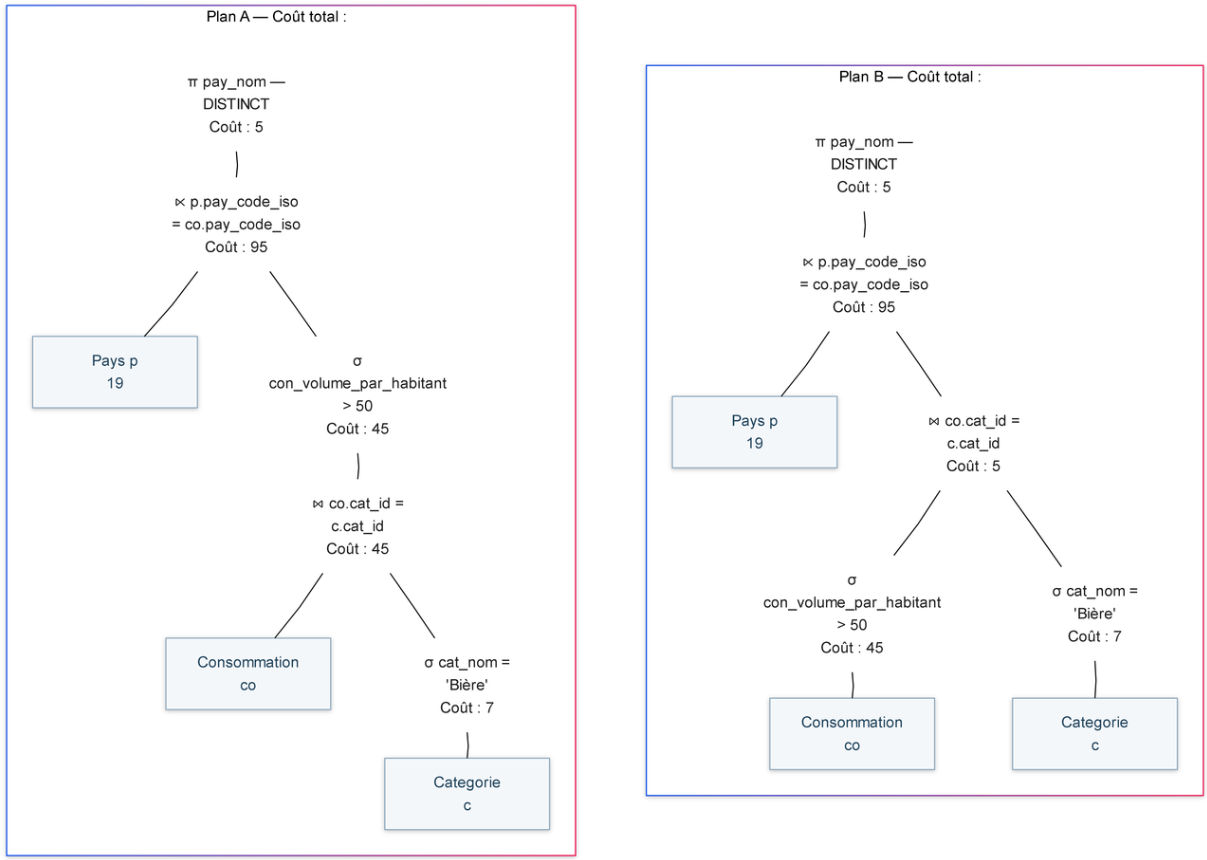
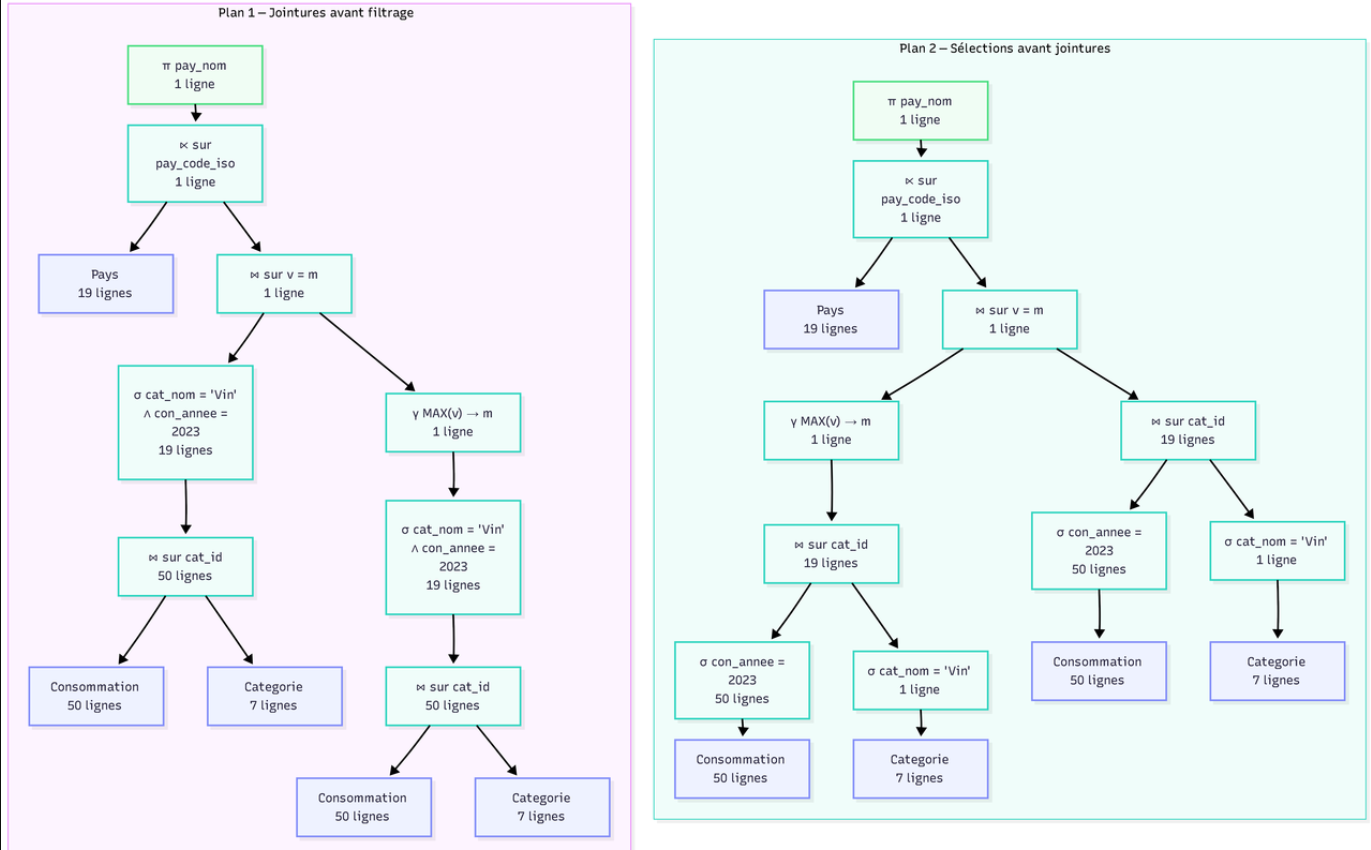
changement d'exemple

Changed region(s): [[0.0, 0.0, 1.0, 1.0]]

diff --git a/README.md b/README.md
@@ -101,21 +101,48 @@ Aucune structure de table ni relation n’a été créée : seul le niveau des d
 V.3 — Étude du meilleur plan d'exécution
 
 Requête analysée:
+Pays avec la plus forte consommation de vin en 2023:
 
-Lister les pays où la consommation de bière dépasse 50 litres par habitant.
-
-SELECT DISTINCT p.pay_nom
+SELECT p.pay_nom
 FROM Pays p
-WHERE EXISTS (
-    SELECT * FROM Consommation co
+WHERE p.pay_code_iso IN (
+    SELECT co.pay_code_iso
+    FROM Consommation co
     JOIN Categorie c ON co.cat_id = c.cat_id
-    WHERE co.pay_code_iso = p.pay_code_iso
-      AND c.cat_nom = 'Bière'
-      AND co.con_volume_par_habitant > 50
+    WHERE c.cat_nom = 'Vin'
+      AND co.con_annee = 2023
+      AND co.con_volume_par_habitant = (
+          SELECT MAX(c2_con.con_volume_par_habitant)
+          FROM Consommation c2_con
+          JOIN Categorie c2_cat ON c2_con.cat_id = c2_cat.cat_id
+          WHERE c2_cat.cat_nom = 'Vin' 
+            AND c2_con.con_annee = 2023
+      )
 );
 
+Plan 1
+R₁ = σ_{C.cat_nom = 'Vin' ∧ Co.con_annee = 2023}
+       ( Consommation ⨯_{Co.cat_id = C.cat_id} Categorie )
+
+M₁ = γ_{MAX(con_volume_par_habitant) → m} ( R₁ )
+
+G₁ = R₁ ⨯_{con_volume_par_habitant = m} M₁
+
+Q₁ = π_{P.pay_nom} ( Pays ⋉_{pay_code_iso} G₁ )
+
+
+Plan 2
+R₂ = ( σ_{con_annee = 2023}(Consommation) )
+     ⨯_{cat_id}
+     ( σ_{cat_nom = 'Vin'}(Categorie) )
+
+M₂ = γ_{MAX(con_volume_par_habitant) → m} ( R₂ )
+
+G₂ = R₂ ⨯_{con_volume_par_habitant = m} M₂
+
+Q₂ = π_{P.pay_nom} ( Pays ⋉_{pay_code_iso} G₂ )
+
 ![alt text](img/image.png)
-Le Plan B est plus performant car il applique les sélections avant les jointures. En réduisant la taille des données dès les feuilles de l'arbre, on diminue le nombre de lignes traitées dans toutes les opérations suivantes.
 
-
+Le Plan 2 est meilleur parce qu'il applique les filtres avant de faire les jointures.
 Règle d'optimisation : pousser les sélections le plus bas possible dans l'arbre d'exécution.
